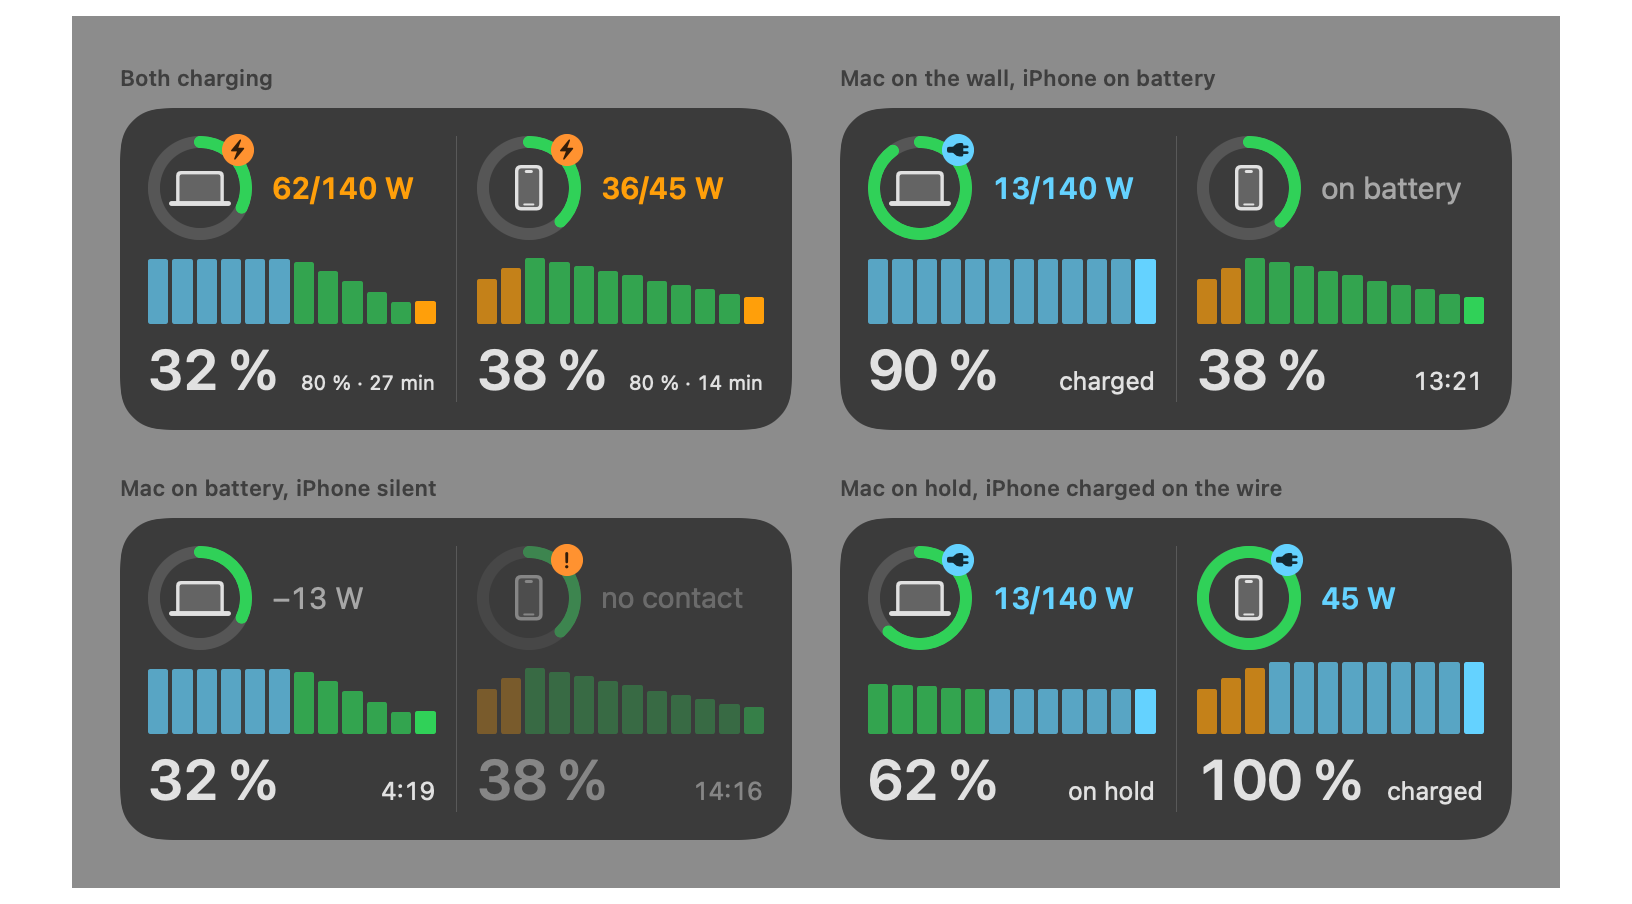
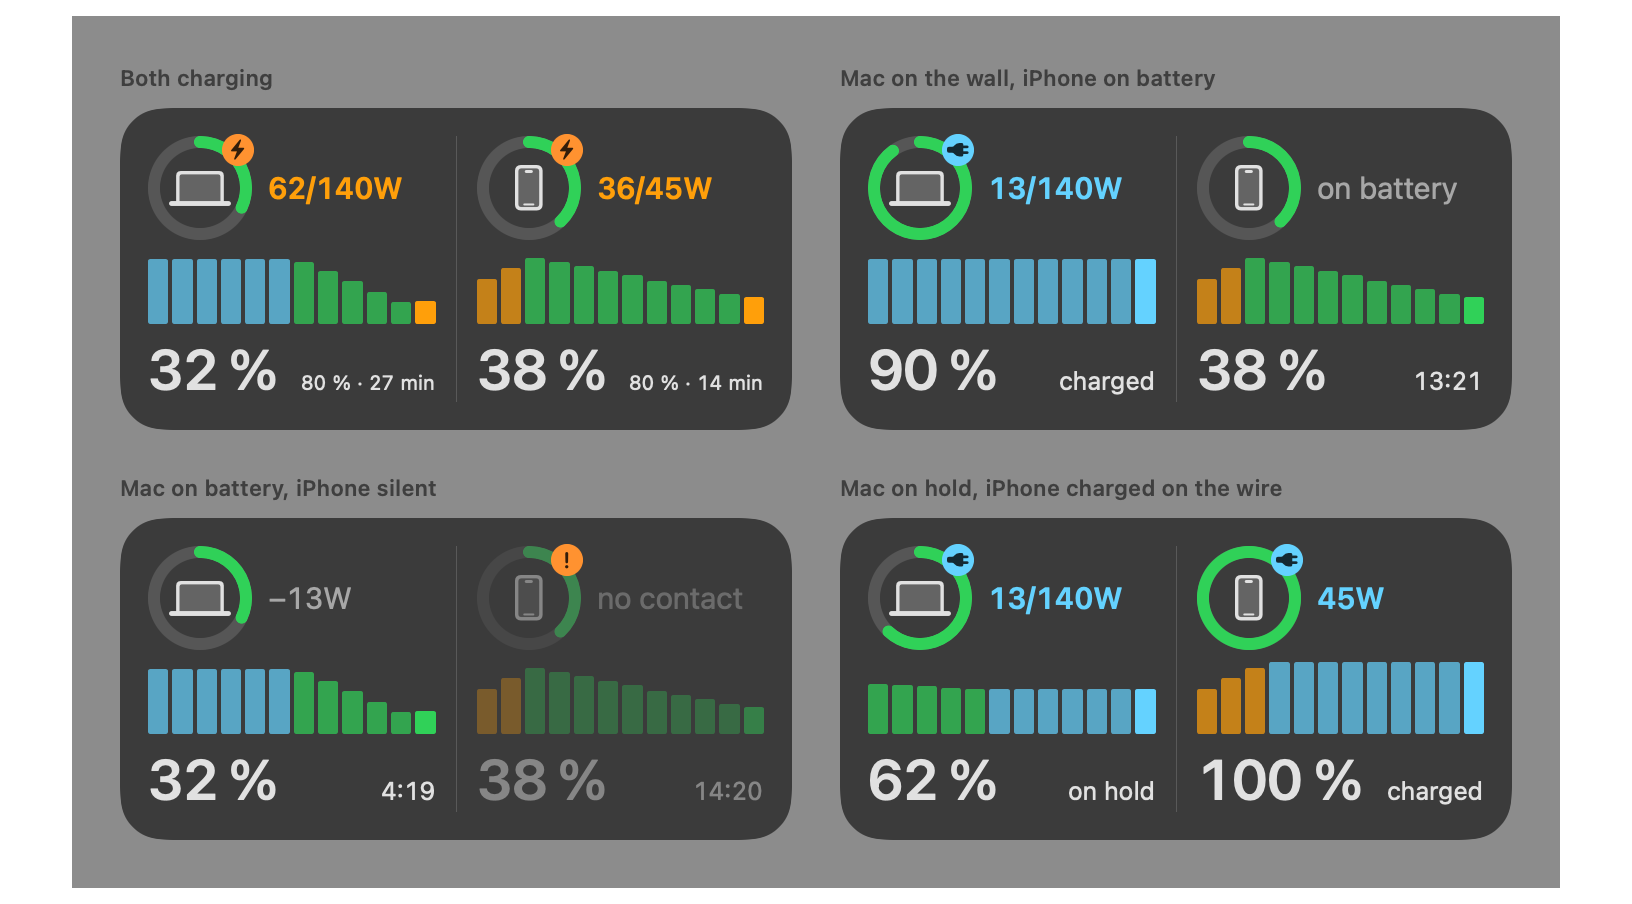
1.3.5: widget writes wattage closed up (132/140W) so the unit always fits

diff --git a/TandemApp/Sources/TandemWidget/DevicePresentation.swift b/TandemApp/Sources/TandemWidget/DevicePresentation.swift
@@ -23,8 +23,8 @@ struct DevicePresentation {
     /// Beside the ring. One compact "into / available" line:
     /// `62/140 W` charging off a 140 W brick, `13/140 W` plugged in and not
     /// charging (the wall is still carrying the machine — `SystemPowerIn`),
-    /// `140 W` (with `showsPlugGlyph`) when only the brick's rating is known,
-    /// `−13 W` on battery. Nil for an iPhone on battery, whose discharge
+    /// `140W` (with `showsPlugGlyph`) when only the brick's rating is known,
+    /// `−13W` on battery. Nil for an iPhone on battery, whose discharge
     /// wattage is deliberately never shown, and nil whenever there is no
     /// wattage to report.
     let powerText: String?
@@ -58,11 +58,12 @@ struct DevicePresentation {
     /// The line beside the ring, resolved. Nil only when there is genuinely
     /// nothing to say; every state in the approved matrix says something.
     let topText: String?
-    /// The same line with the unit dropped ("135/140" for "135/140 W"), used
-    /// only when the full string will not fit beside the ring: a three-digit
-    /// pair on a 140 W brick is wider than half a medium widget. Nil when
-    /// there is nothing to drop.
-    let topTextCompact: String?
+    /// Narrower spellings of the same line, widest first, for the rare case
+    /// where even the tight form will not fit beside the ring. The tile writes
+    /// wattage closed up (`132/140W`, the way Apple names its own bricks)
+    /// because the space before the unit was the couple of points that made a
+    /// three-digit pair overflow half a medium widget.
+    let topTextFallbacks: [String]
     let topKind: TopLineKind
 
     /// `DeviceStatus.isSilent(now:)`: we have been *trying and failing* to read
@@ -135,7 +136,7 @@ struct DevicePresentation {
             lastSeen = nil
             unreachableSince = nil
             topText = Self.noDataLabel
-            topTextCompact = nil
+            topTextFallbacks = []
             topKind = .plain
             return
         }
@@ -157,7 +158,7 @@ struct DevicePresentation {
         timeLine = Self.timeLine(status: status, now: now, age: silent ? silence : nil)
 
         let power = Self.powerLine(kind: kind, status: status)?.full
-        let powerCompact = Self.powerLine(kind: kind, status: status)?.compact
+        let powerFallbacks = Self.powerLine(kind: kind, status: status)?.fallbacks ?? []
         powerText = power
         let plugged = reading.externalConnected && !reading.isCharging
         showsPlugGlyph = plugged && power != nil
@@ -166,22 +167,22 @@ struct DevicePresentation {
         // matrix (docs/design/widget/StatesMac, StatesPhone).
         if silent {
             topText = Self.noContactLabel
-            topTextCompact = nil
+            topTextFallbacks = []
             topKind = .plain
         } else if reading.isCharging {
             topText = power
-            topTextCompact = powerCompact
+            topTextFallbacks = powerFallbacks
             topKind = power == nil ? .plain : .charging
         } else if plugged {
             topText = power
-            topTextCompact = powerCompact
+            topTextFallbacks = powerFallbacks
             topKind = power == nil ? .plain : .plugged
         } else {
             // A Mac says what it is drawing; a phone's discharge wattage is
             // deliberately never shown, and a partial Mac reading has no honest
             // figure either. Both then say what they *are* doing.
             topText = power ?? Self.onBatteryLabel
-            topTextCompact = nil
+            topTextFallbacks = []
             topKind = .plain
         }
 
@@ -223,7 +224,7 @@ struct DevicePresentation {
     /// has never changed anybody's mind, and the tile has better uses for the
     /// width.
     /// The wattage line and, where one exists, a narrower spelling of it.
-    private static func powerLine(kind: DeviceKind, status: DeviceStatus) -> (full: String, compact: String?)? {
+    private static func powerLine(kind: DeviceKind, status: DeviceStatus) -> (full: String, fallbacks: [String])? {
         let reading = status.reading
         let adapter = (reading.adapterWatts ?? 0) > 0 ? reading.adapterWatts : nil
 
@@ -238,14 +239,14 @@ struct DevicePresentation {
                 // "13/140 W" — coming out of the wall over what is available.
                 // The unit is the first thing to go when the pair runs wide.
                 let pair = "\(Int(into.rounded()))/\(adapter)"
-                return ("\(pair) W", pair)
+                return ("\(pair)W", [pair])
             case let (into?, nil):
-                return ("\(Int(into.rounded())) W", nil)
+                return ("\(Int(into.rounded()))W", [])
             case let (nil, adapter?):
                 // Nothing measurable, so the number is what the brick offers
                 // rather than what is flowing. An iPhone left on the wire past
                 // 100 % is the usual way to see it: "45 W".
-                return ("\(adapter) W", nil)
+                return ("\(adapter)W", [])
             case (nil, nil):
                 return nil
             }
@@ -256,13 +257,13 @@ struct DevicePresentation {
             // On battery: what the machine is drawing. `SystemLoad` is the
             // real figure; Amperage x Voltage is the fallback.
             if let load = reading.systemLoadW {
-                return ("\(minus)\(Int(load.rounded())) W", nil)
+                return ("\(minus)\(Int(load.rounded()))W", [])
             }
             // A partial reading carries 0 W, which is a lie, not a reading.
             guard !reading.isPartial else { return nil }
             let watts = reading.batteryPowerW
             let sign = watts < 0 ? minus : ""
-            return ("\(sign)\(Int(abs(watts).rounded())) W", nil)
+            return ("\(sign)\(Int(abs(watts).rounded()))W", [])
         case .iphone:
             // The phone's discharge wattage is deliberately not shown.
             return nil

diff --git a/TandemApp/Sources/TandemWidget/MediumWidgetView.swift b/TandemApp/Sources/TandemWidget/MediumWidgetView.swift
@@ -18,9 +18,9 @@ import SwiftUI
 ///
 /// | state | beside the ring | bottom right |
 /// | --- | --- | --- |
-/// | charging | `62/140 W`, amber | `80 % · 27 min` |
-/// | on battery | `−13 W` / `on battery` | `4:19` |
-/// | on the wall, holding | 🔌 `13/140 W`, blue | `charged` / `on hold` |
+/// | charging | `62/140W`, amber | `80 % · 27 min` |
+/// | on battery | `−13W` / `on battery` | `4:19` |
+/// | on the wall, holding | 🔌 `13/140W`, blue | `charged` / `on hold` |
 /// | silent > 10 min | `no contact` | `14:32` |
 /// | never seen | `no data` | — |
 ///
@@ -53,7 +53,7 @@ struct DeviceTile: View {
 
     var body: some View {
         VStack(alignment: .leading, spacing: 0) {
-            HStack(alignment: .center, spacing: 10) {
+            HStack(alignment: .center, spacing: 8) {
                 ring
                 topLine.opacity(device.dimming)
                 Spacer(minLength: 0)
@@ -97,16 +97,19 @@ struct DeviceTile: View {
     /// carrying and the pack is not taking, and everything else is quiet.
     ///
     /// It is drawn at its full size wherever it fits. Three
-    /// digits over three ("135/140 W" on a 140 W brick) is wider than half a
-    /// medium widget, so rather than truncate it to "135/140…" the unit is
-    /// dropped first and only then is the type allowed to shrink.
+    /// digits over three on a 140 W brick only fits because the tile writes
+    /// wattage closed up ("135/140W"); if even that runs out of room the unit
+    /// goes, and only then is the type allowed to shrink.
     @ViewBuilder
     private var topLine: some View {
         if let text = device.topText {
             ViewThatFits(in: .horizontal) {
                 styledTop(text)
-                if let compact = device.topTextCompact {
-                    styledTop(compact)
+                if device.topTextFallbacks.count > 0 {
+                    styledTop(device.topTextFallbacks[0])
+                }
+                if device.topTextFallbacks.count > 1 {
+                    styledTop(device.topTextFallbacks[1])
                 }
                 styledTop(text, floor: device.topKind == .plain ? 0.6 : 0.8)
             }

diff --git a/TandemApp/README.md b/TandemApp/README.md
@@ -186,9 +186,9 @@ them (`docs/design/widget/StatesMac.dc.html`, `StatesPhone.dc.html`;
 
 | state | beside the ring | bottom right |
 | --- | --- | --- |
-| charging | `62/140 W`, amber semibold | `80 % · 27 min` (`80 % · —` before the estimator has an ETA, `charged` once past 80 %) |
-| on battery | `−13 W` on the Mac, `on battery` on the phone, both secondary | `4:19` |
-| plugged in, not charging | `powerplug` glyph + `13/140 W` in blue semibold (an iPhone left on the wire past 100 % reads `45 W`) | `charged` at/above 80 % or full, else `on hold` |
+| charging | `62/140W`, amber semibold | `80 % · 27 min` (`80 % · —` before the estimator has an ETA, `charged` once past 80 %) |
+| on battery | `−13W` on the Mac, `on battery` on the phone, both secondary | `4:19` |
+| plugged in, not charging | `powerplug` glyph + `13/140W` in blue semibold (an iPhone left on the wire past 100 % reads `45W`) | `charged` at/above 80 % or full, else `on hold` |
 | silent (failing for > 10 min, ≥ 2 attempts) | `no contact` | `14:32` |
 | never seen | `no data` | *(nothing)* |
 
@@ -392,8 +392,8 @@ automated and has to be done by hand.
   percent, a thin progress bar (green / amber-while-charging / red
   below 15%), and three telemetry columns: **system** (what the
   machine is drawing — `PowerTelemetryData.SystemLoad`, `13 W` plugged in,
-  `−13 W` on battery, blank for an iPhone on battery), **adapter**
-  (`13/140 W` — `SystemPowerIn` over `AdapterDetails.Watts`, with the orange
+  `−13W` on battery, blank for an iPhone on battery), **adapter**
+  (`13/140W` — `SystemPowerIn` over `AdapterDetails.Watts`, with the orange
   bolt only while actually charging, an em dash on battery), and
   **time** (ETA-to-80% while charging, time-left otherwise). The system column
   is why a plugged-in Mac no longer reads "0 W": battery current is 0 there
